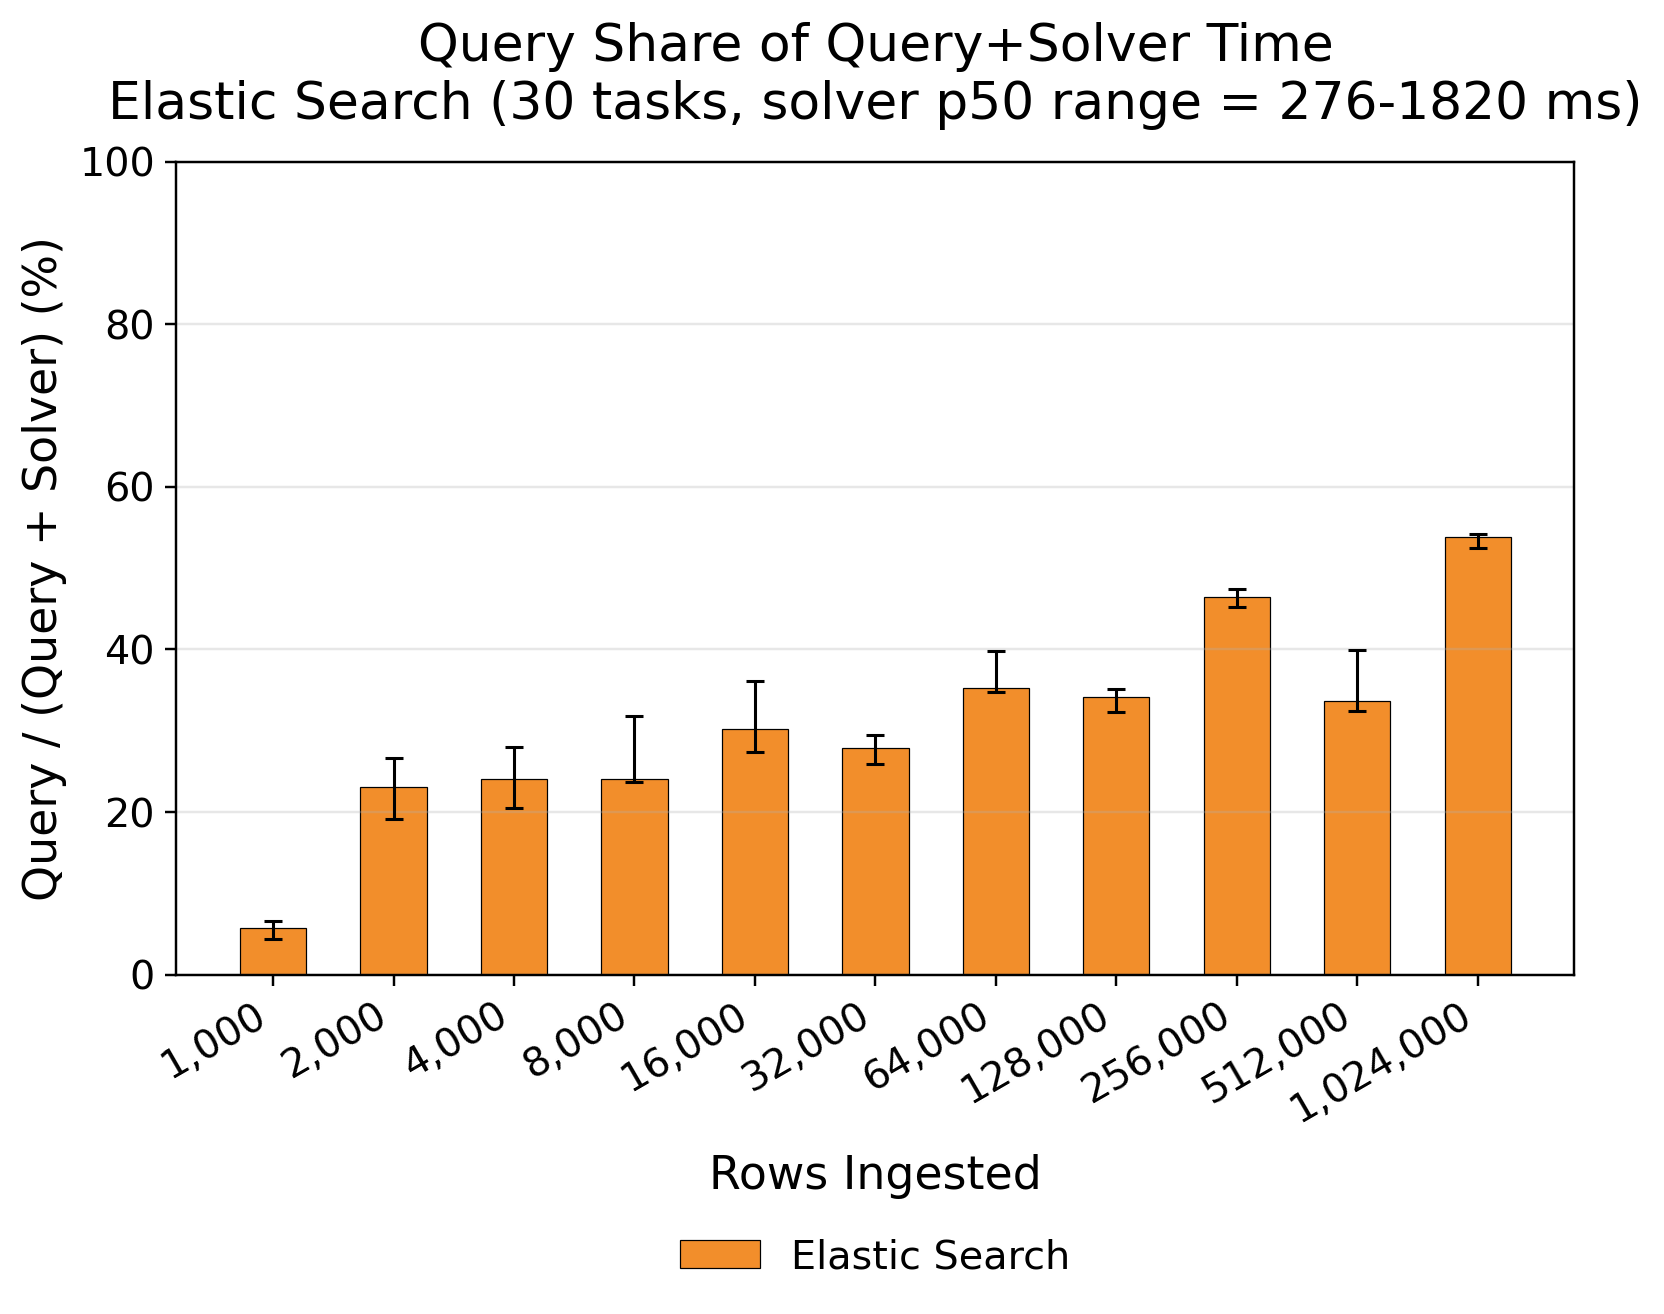
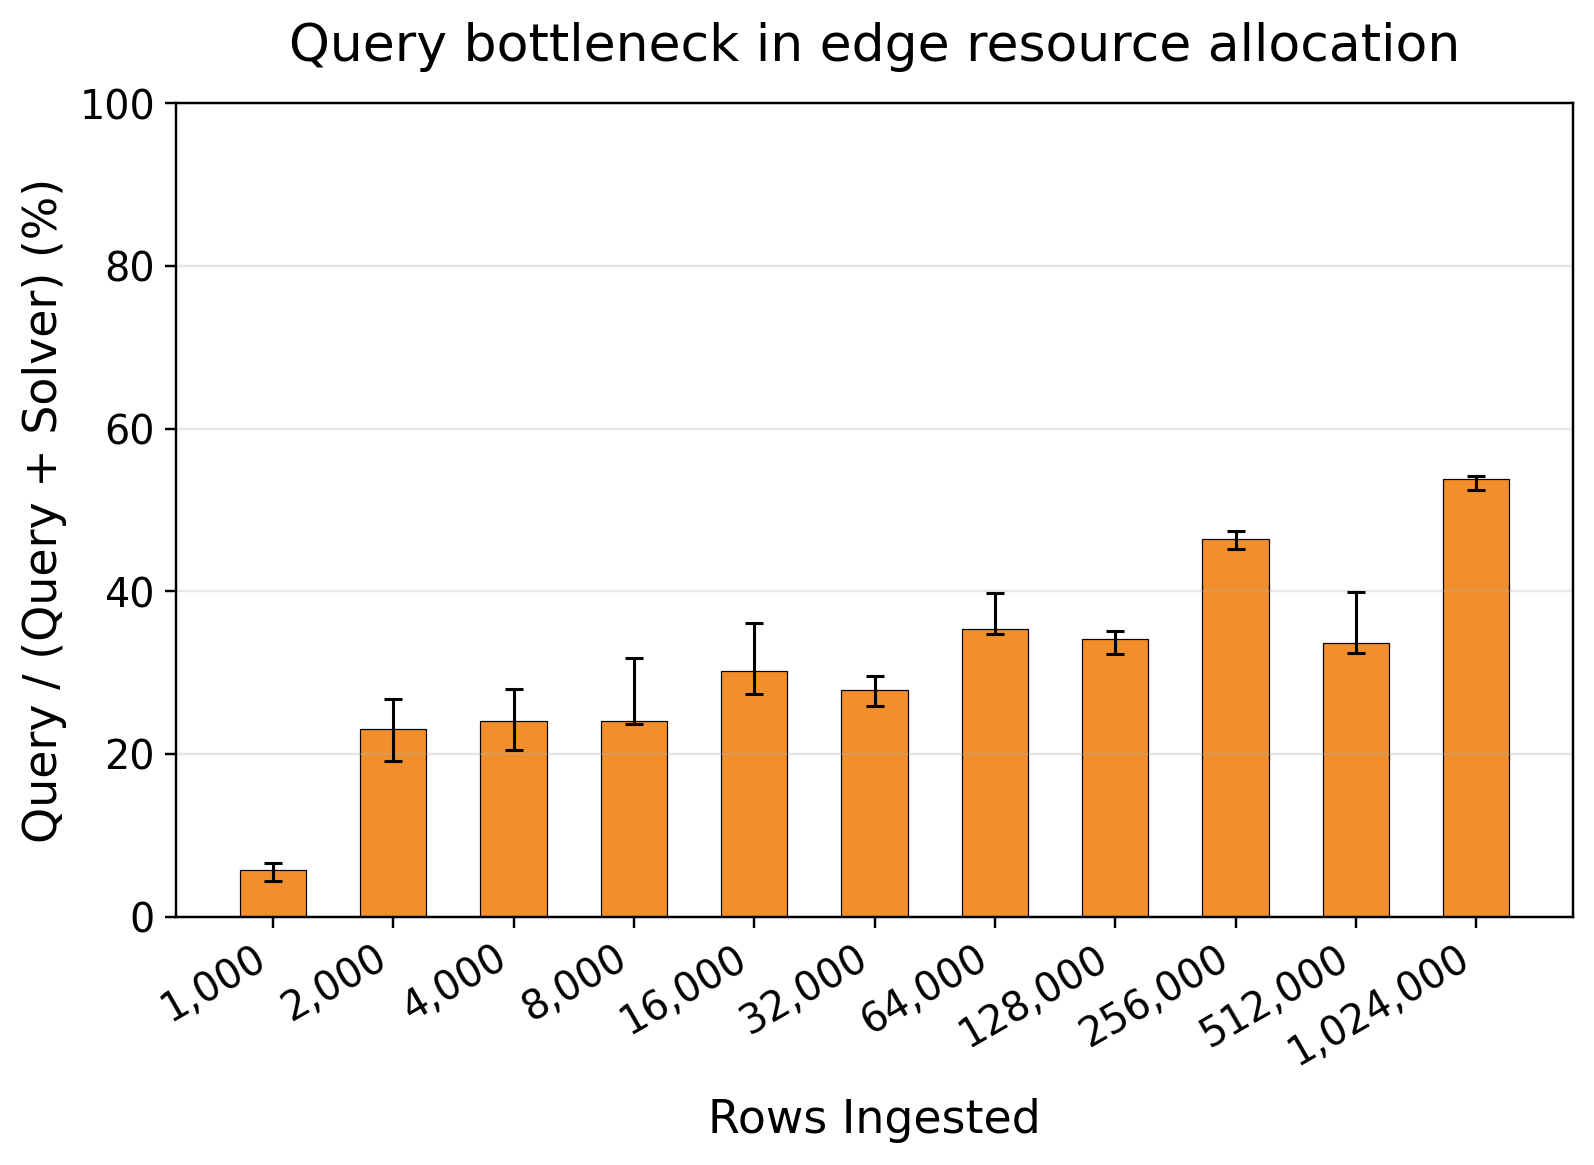
adjust one plot

diff --git a/scripts/plot_es_sweep_query_ratio.py b/scripts/plot_es_sweep_query_ratio.py
@@ -74,7 +74,6 @@ def main() -> None:
     ax.bar(
         x, ratio_p50, bar_w,
         yerr=[err_lo, err_hi],
-        label="Elastic Search",
         color="#f28e2b",
         capsize=3,
         edgecolor="black",
@@ -88,26 +87,16 @@ def main() -> None:
     ax.grid(axis="y", alpha=0.3)
     ax.tick_params(axis="both", labelsize=TICK_FS)
     ax.set_title(
-        "Query Share of Query+Solver Time\n"
-        f"Elastic Search ({args.task_count} tasks, "
-        f"solver p50 range = {s_p50.min():.0f}-{s_p50.max():.0f} ms)",
+        "Query bottleneck in edge resource allocation",
         fontsize=TITLE_FS,
         pad=14,
     )
     ax.set_xticks(x)
     ax.set_xticklabels([f"{r:,}" for r in rows], rotation=30, ha="right")
 
-    legend = ax.legend(
-        loc="upper center",
-        bbox_to_anchor=(0.5, -0.28),
-        ncol=1,
-        fontsize=LEGEND_FS,
-        frameon=False,
-    )
-
     out = REPO_ROOT / args.out
     out.parent.mkdir(parents=True, exist_ok=True)
-    plt.savefig(out, dpi=220, bbox_inches="tight", bbox_extra_artists=[legend])
+    plt.savefig(out, dpi=220, bbox_inches="tight")
     plt.close(fig)
     print(f"Saved: {out}")
     print(f"solver_p50_ms per rows = {[f'{v:.1f}' for v in s_p50]}")
